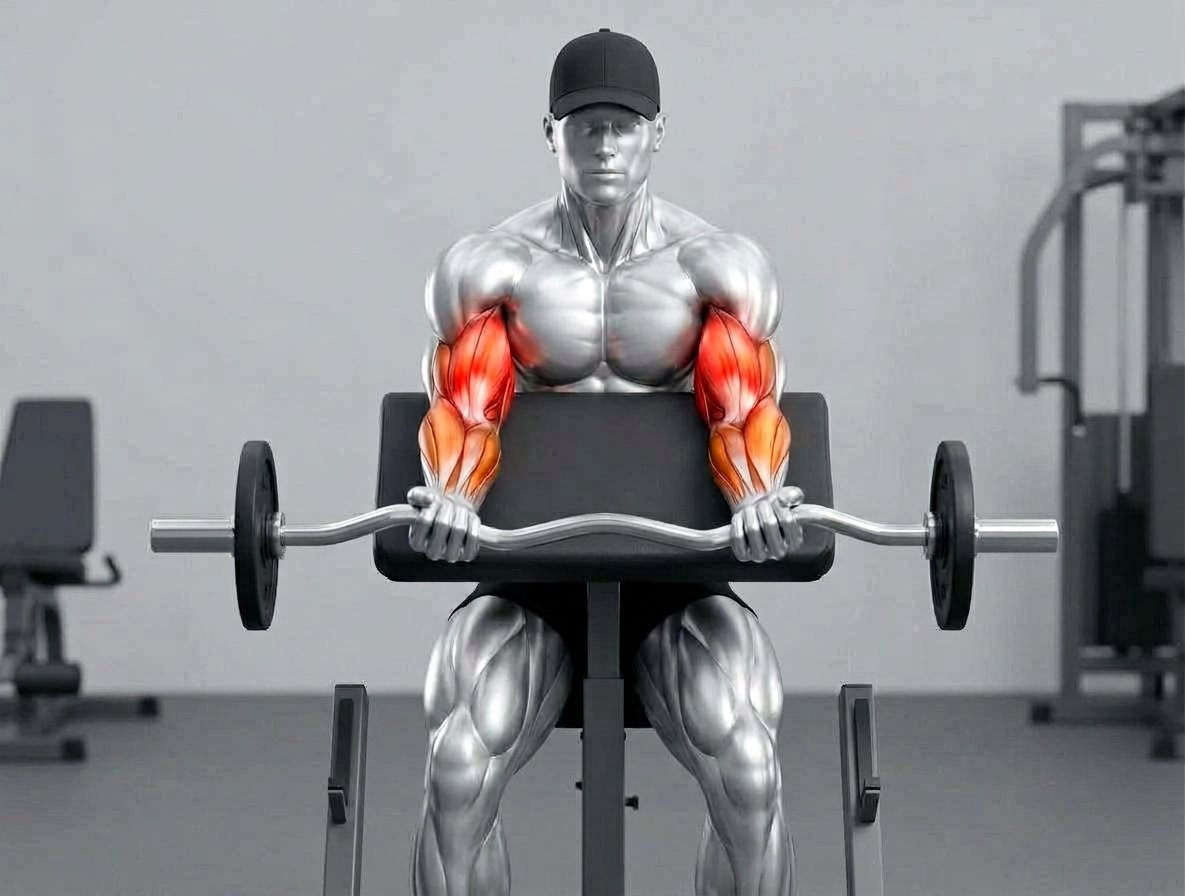
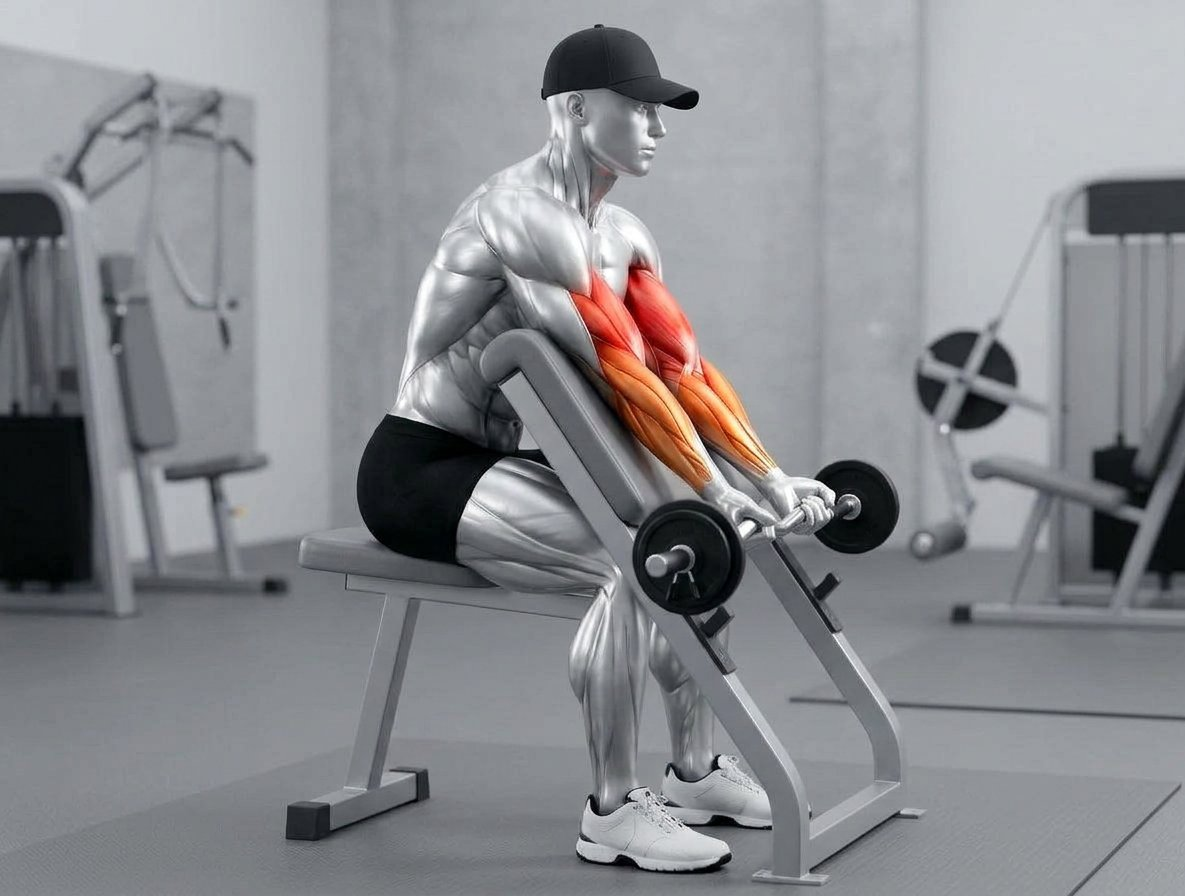
B2 ref photo v4: side view, low start, verified pronation + zoom proof

diff --git a/yanis-fitness-evolution/docs/videos-3d/06-DESCRIPTIONS-PRECISES.md b/yanis-fitness-evolution/docs/videos-3d/06-DESCRIPTIONS-PRECISES.md
@@ -108,25 +108,26 @@ pieds au sol, regard devant.
 Animate this same silver-chrome athletic man with matte black baseball cap, black shorts, white sneakers, standing and holding a chrome EZ curl bar with small black plates with an UNDERHAND supinated grip (palms facing up), arms down, elbows pinned against his sides. PHASE 1 (~2.5s): bend ONLY the elbows, curling the bar up in an arc toward the shoulders, elbows GLUED to the body and perfectly still, torso upright, no swinging or leaning. PHASE 2 (~2s): slow controlled lowering back to nearly straight arms (elbows never locked). LOCKED: elbows against the body, straight wrists, feet planted, eyes forward. Biceps glowing vivid RED with stable glow, no flicker. Front three-quarter medium shot, static camera, bright gym, end pose identical to start pose for a perfect loop. AVOID: moving elbows, swinging torso, bent wrists, fully locked elbows, extra limbs, deformed hands, flickering muscles, watermark, text.
 ```
 
-### B2 — Curl pupitre barre EZ pronation (REFAIT le 22/10)
+### B2 — Curl pupitre barre EZ pronation (REFAIT v4 le 22/10 : vue de côté, départ en bas)
 
-**Photo :** `vague1-biceps-02-scott-ez-pronation.jpg` (VUE FACE : dos des
-mains visible sur la barre — la v1 a été rejetée car supination)
+**Photo :** `vague1-biceps-02-scott-ez-pronation.jpg` + zoom de contrôle
+`vague1-biceps-02-zoom-prise.jpg` (v1/v2/v3 rejetées : supination au lieu
+de pronation — la vue de face trompait l'IA comme le contrôle)
 
-**Description précise (FR) :** Assis au pupitre, haut des bras À PLAT
-sur le plan incliné, barre EZ en PRISE PRONATION : PAUMES VERS LE SOL,
-dos des mains (articulations) VERS LA CAMÉRA — reverse curl. Depuis la
-position mi-montée de la photo : PHASE 1 (~2 s) : descente lente
-jusqu'à extension quasi complète SANS verrouiller, paumes RESTENT vers
-le sol. PHASE 2 (~2,5 s) : remontée vers le menton, SEULS les coudes
-fléchissent. VERROUILLÉ : prise pronation À TOUT MOMENT (si les paumes
-se tournent vers le haut, c'est FAUX), bras sur le pupitre, buste
-immobile. VUE FACE imposée pour que la prise soit vérifiable.
+**Description précise (FR) :** POSITION DE DÉPART (photo) : assis au
+pupitre, haut des bras À PLAT, bras ALLONGÉS le long du plan incliné,
+barre EZ en bas en PRISE PRONATION : PAUMES VERS L'ARRIÈRE (vers le
+corps), POUCES VERS LE SOL, dos des mains vers la caméra. PHASE 1
+(~2,5 s) : flexion des coudes, barre monte vers le menton, paumes
+RESTENT vers l'arrière/bas (jamais vers l'avant). PHASE 2 (~2 s) :
+descente lente jusqu'à extension quasi complète, sans verrouiller.
+VERROUILLÉ : pronation À TOUT MOMENT (paumes vers l'avant/haut =
+FAUX), bras sur le pupitre, buste immobile. VUE DE CÔTÉ imposée.
 
 **Prompt arena.ai (EN, copiable) :**
 
 ```text
-Animate this same silver-chrome athletic man with matte black baseball cap, black shorts, white sneakers, seated at a preacher curl bench, upper arms resting FLAT on the angled pad, holding a chrome EZ curl bar with small black plates with a strong OVERHAND PRONATED GRIP: KNUCKLES FACING UP toward the camera, PALMS FACING DOWN toward the floor, backs of the hands clearly visible on top of the bar (reverse curl). From this mid-curl position, PHASE 1 (~2s): lower the bar slowly to near-full extension WITHOUT locking the elbows, upper arms GLUED to the pad, palms STAY facing the floor the whole time. PHASE 2 (~2.5s): curl the bar back up toward the chin by bending ONLY the elbows, torso still. LOCKED: pronated overhand grip AT ALL TIMES — if the palms turn upward it is WRONG — arms on the pad, no shoulder movement. Biceps glowing vivid RED and forearms orange, stable glow, no flicker. FRONT three-quarter medium shot clearly showing the backs of the hands on the bar, static camera, bright gym, end pose identical to start pose for a perfect loop. AVOID: underhand grip, palms turning up, supination, arms lifting off the pad, swinging torso, locked elbows, extra limbs, deformed hands, flickering muscles, watermark, text.
+Animate this same silver-chrome athletic man with matte black baseball cap, black shorts, white sneakers, seated at a preacher curl bench in SIDE VIEW, upper arms resting FLAT on the angled pad, arms nearly EXTENDED down along the pad, holding a chrome EZ curl bar with small black plates LOW with an OVERHAND PRONATED GRIP: PALMS FACING BACKWARD toward his own body, THUMBS POINTING DOWN toward the floor, BACKS OF THE HANDS facing the camera. PHASE 1 (~2.5s): bend ONLY the elbows, curling the bar up toward the chin, palms STAY facing backward and downward the whole time (never turning forward or up), upper arms GLUED to the pad, torso still. PHASE 2 (~2s): slow lowering back to near-full extension WITHOUT locking the elbows. LOCKED: pronated overhand grip AT ALL TIMES — palms facing forward or upward is WRONG — arms on the pad, no shoulder movement. Biceps glowing vivid RED and forearms orange, stable glow, no flicker. SIDE medium shot clearly showing the backward palms and downward thumbs, static camera, bright gym, end pose identical to start pose for a perfect loop. AVOID: underhand grip, palms facing forward or up, thumbs pointing up, supination, arms lifting off the pad, swinging torso, locked elbows, extra limbs, deformed hands, flickering muscles, watermark, text.
 ```
 
 ### B3 — Curl marteau assis
